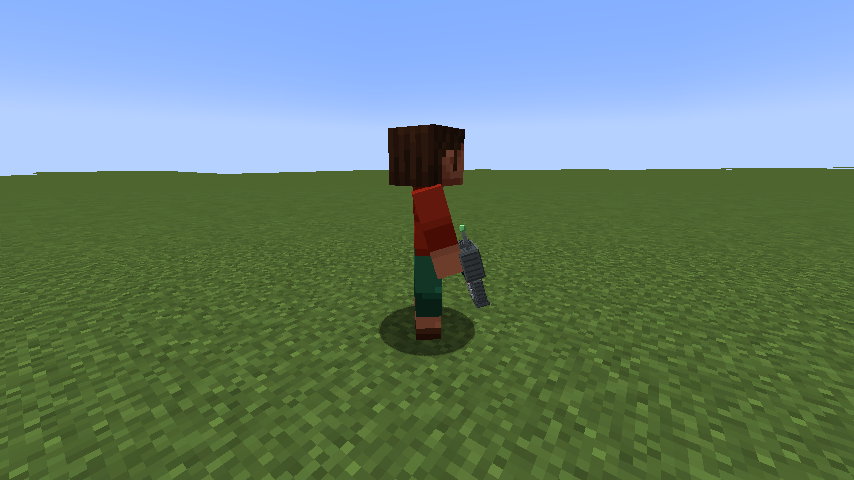
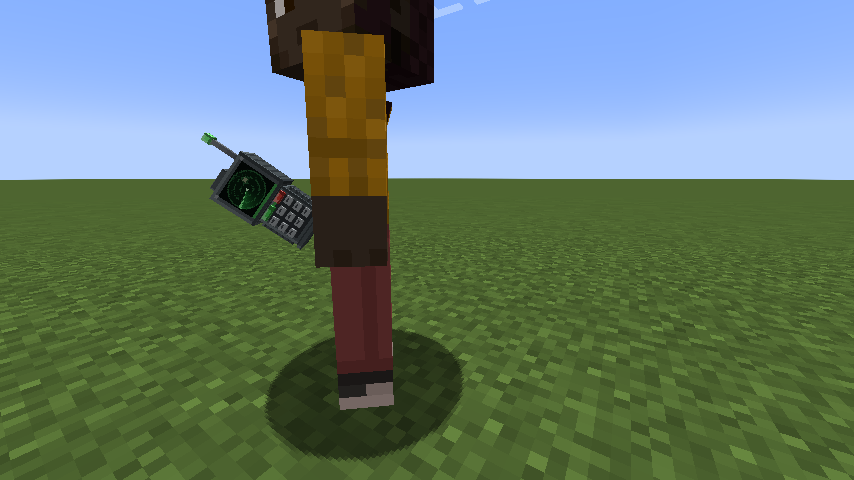
v0.17.2: the Meteor Scanner is held like a regular item (up and out of the fist, a tool's pose); no recharge timers on the Omnitrix HUD

Changed region(s): [[0.0, 0.0, 1.0, 1.0], [0.7307, 0.875, 0.8525, 1.0], [0.7307, 0.7812, 0.822, 0.875]]

diff --git a/src/client/java/com/projecthero/mod/client/omnitrix/OmnitrixHud.java b/src/client/java/com/projecthero/mod/client/omnitrix/OmnitrixHud.java
@@ -112,20 +112,13 @@ public final class OmnitrixHud {
 		return top;
 	}
 
-	/** Human with the watch: only the recharge bar while it recharges (v0.17.1). Returns the HUD's top. */
+	/**
+	 * Human with the watch: nothing. v0.17.1 (user: "there should be no UI basically until the player transforms"); v0.17.2 (user:
+	 * "remove the recharge timers aswell please from the HUD"): no recharge bar either -- the red face on the watch and the refused
+	 * slap say it is recharging. Returns the HUD's top.
+	 */
 	private static int human(GuiGraphics g, Minecraft mc, LocalPlayer p, OmnitrixState s, long now, int x0, int bottom) {
-		int y = bottom;
-		int recharge = (int) Math.max(0L, s.rechargeUntil - now);
-		if (recharge > 0) {
-			int by = y - BAR_H - 1;
-			int total = Math.max(recharge, recharge > OmnitrixConfig.EARLY_RECHARGE_TICKS ? OmnitrixConfig.RECHARGE_TICKS : OmnitrixConfig.EARLY_RECHARGE_TICKS);
-			meter(g, mc, x0, by, Component.translatable("hud.projecthero.omnitrix.meter.recharge"), recharge / (float) total, RED,
-					(recharge + 19) / 20 + "s", NAME);
-			y = by - 4;
-		}
-		// v0.17.1 (user: "there should be no UI basically until the player transforms but just keep the timers"): human, only the
-		// recharge bar shows -- no title row, no selected alien, no scroll / click hint
-		return y;
+		return bottom;
 	}
 
 	/**
@@ -238,11 +231,9 @@ public final class OmnitrixHud {
 				rows.add(MoveListOverlay.Row.of(Component.translatable("hud.projecthero.omnitrix.alt.key.dial").getString(),
 						Component.translatable("hud.projecthero.omnitrix.alt.selected", OmnitrixInfo.iconName(sel)), null));
 			}
-			int recharge = (int) Math.max(0L, s.rechargeUntil - now);
-			// v0.17.1 (user): R raises / lowers the watch (V only turns an alien back)
+			// v0.17.1 (user): R raises / lowers the watch (V only turns an alien back); v0.17.2: no recharge countdown here either
 			rows.add(MoveListOverlay.Row.of(MoveListOverlay.key(AbilitySlot.SLOT_1),
-					Component.translatable(s.selecting ? "hud.projecthero.omnitrix.alt.lower" : "hud.projecthero.omnitrix.alt.raise"),
-					null, recharge > 0 ? Component.translatable("hud.projecthero.omnitrix.alt.recharging", (recharge + 19) / 20) : null));
+					Component.translatable(s.selecting ? "hud.projecthero.omnitrix.alt.lower" : "hud.projecthero.omnitrix.alt.raise"), null));
 			return rows;
 		}
 		for (AbilitySlot slot : OmnitrixInfo.KIT_SLOTS) {
